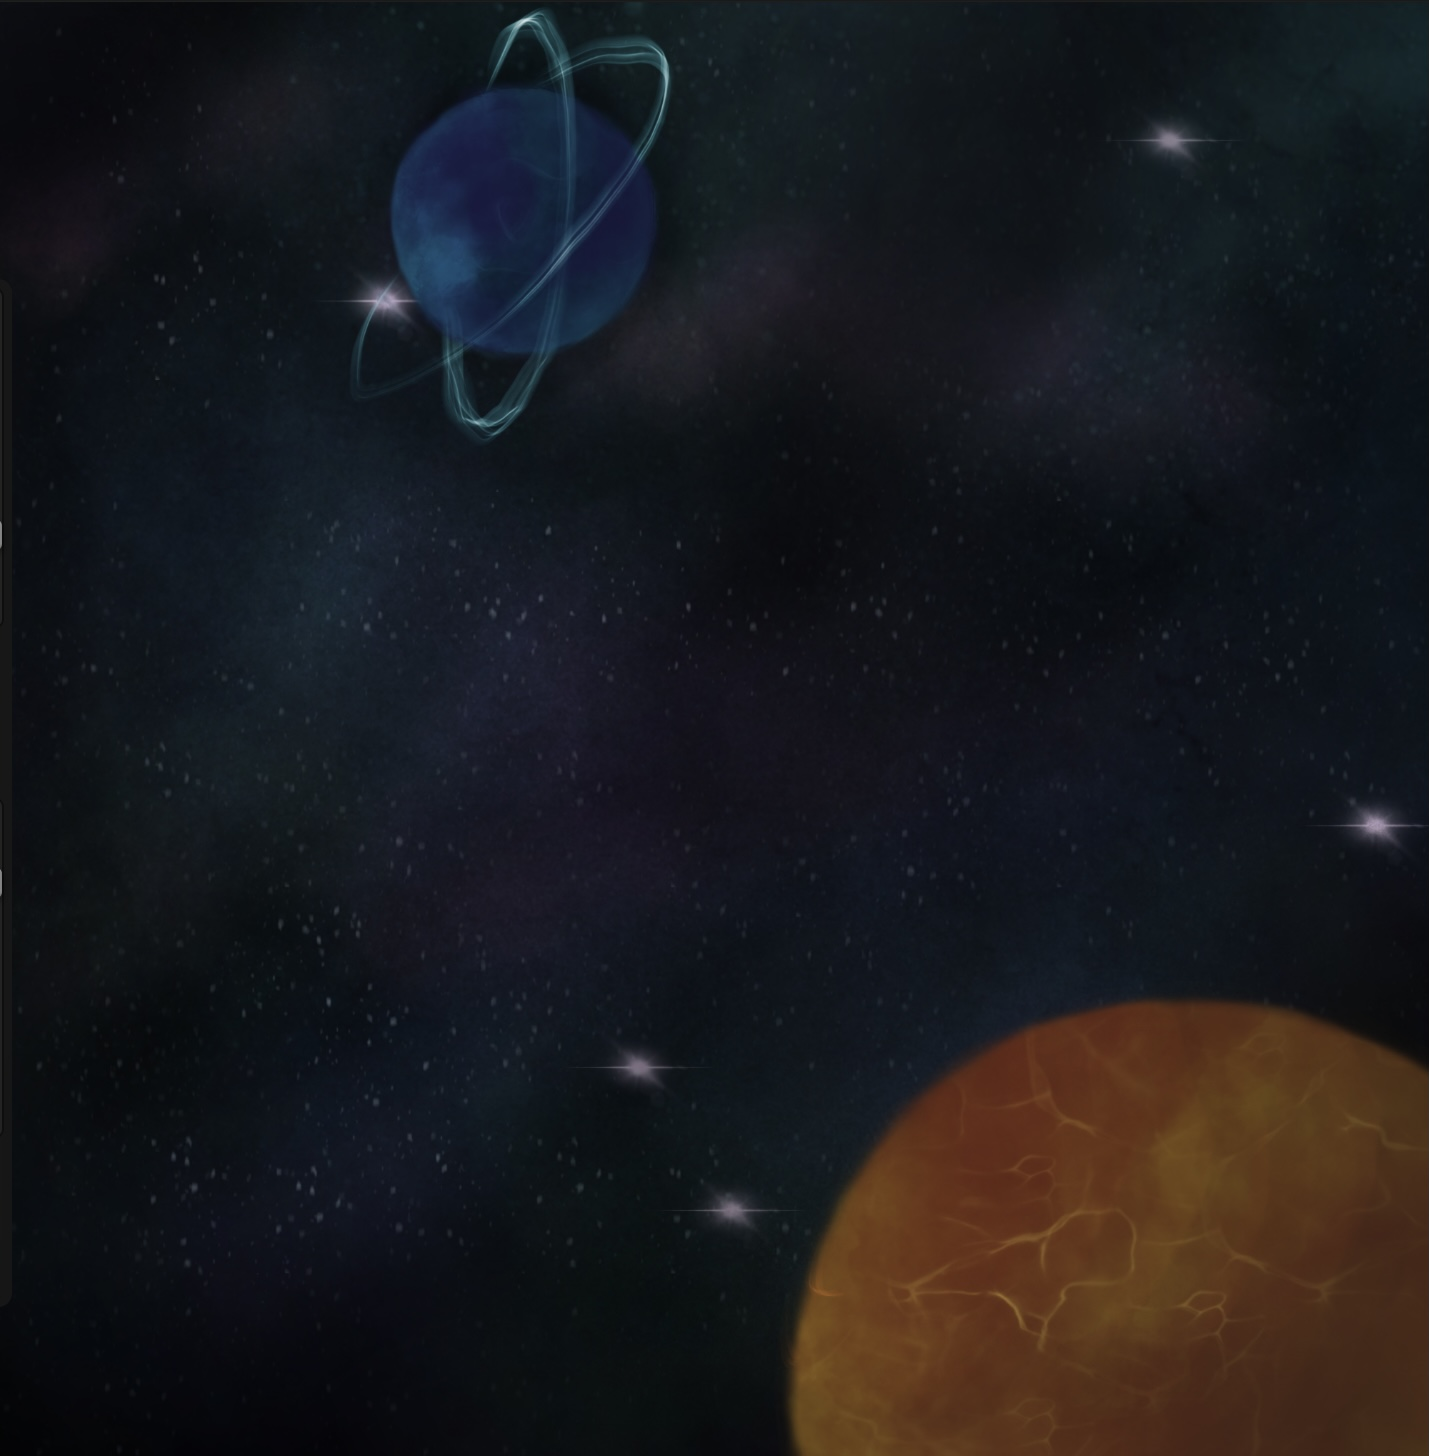
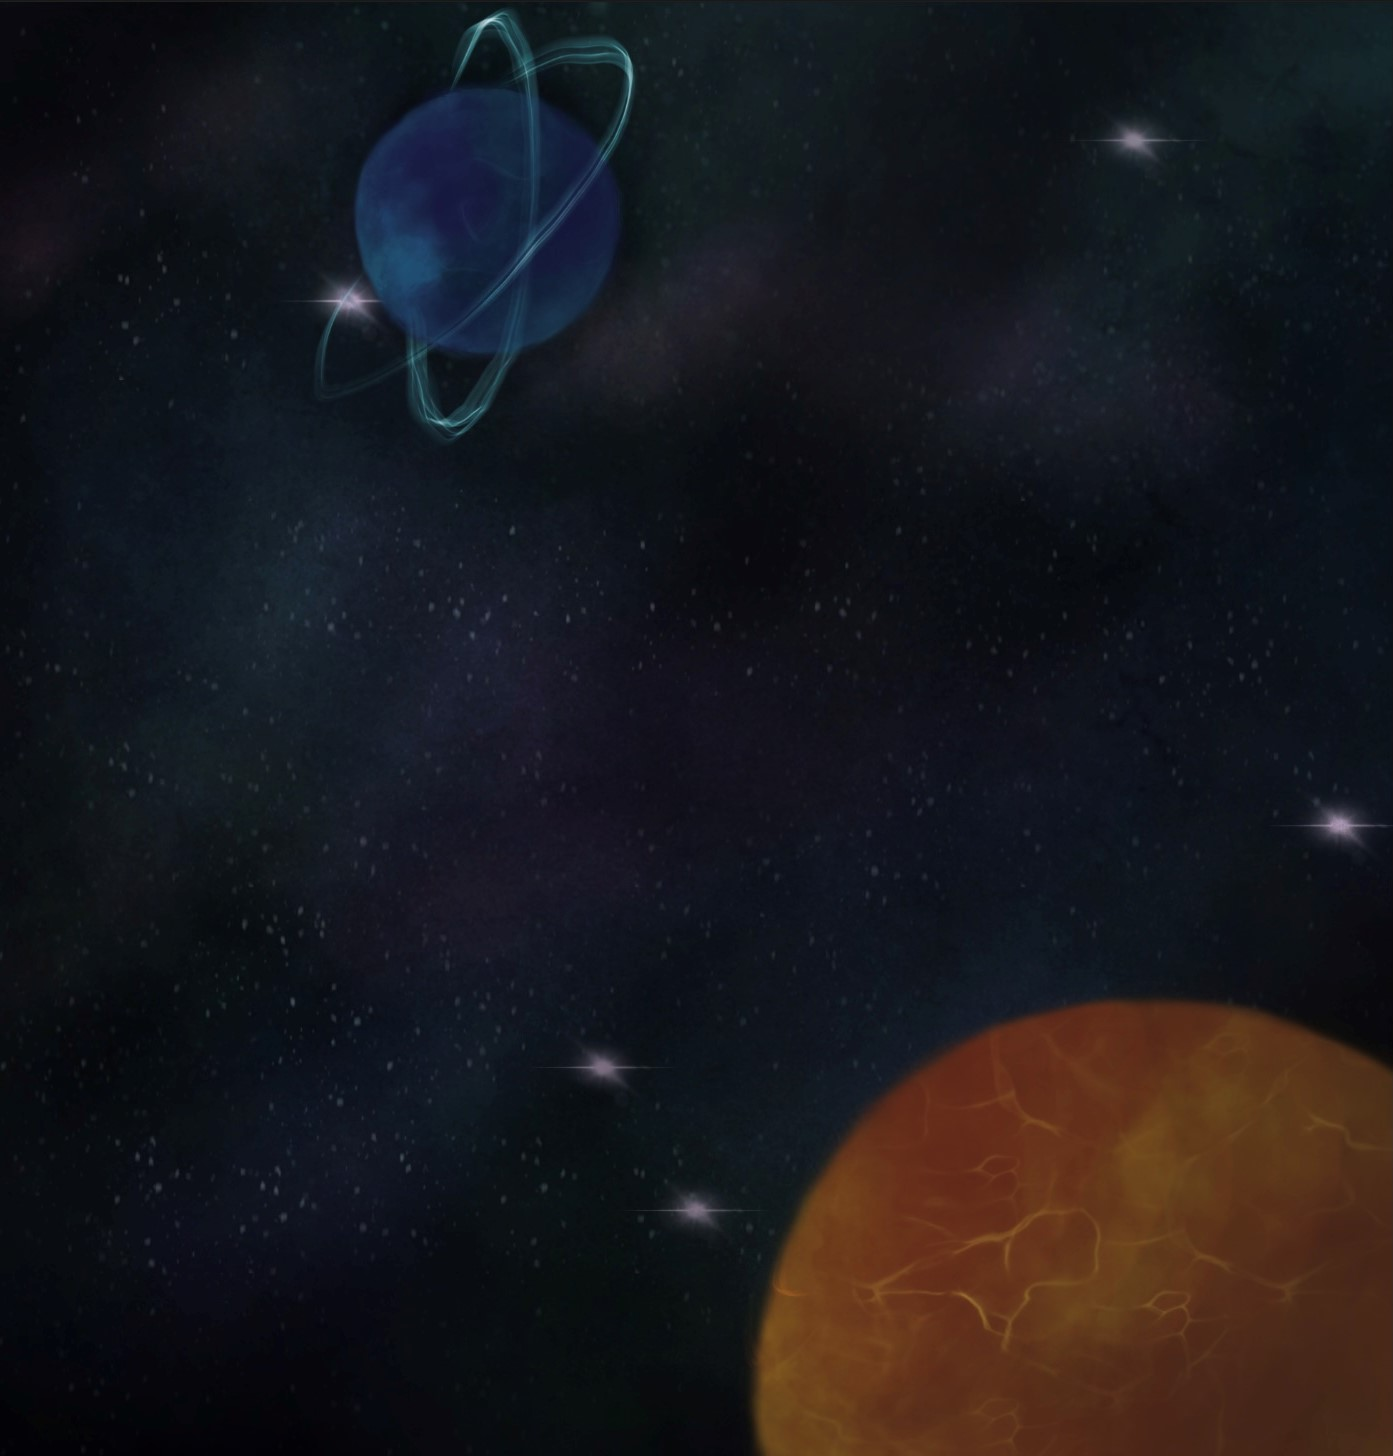
added resume, added media queries

diff --git a/assets/style.css b/assets/style.css
@@ -15,9 +15,8 @@ header {
     background-image: url(../assets/images/Space.PNG);
     background-size: cover;
     background-attachment: fixed;
-    background-position: 80%;
+    background-position: auto;
     padding: 20px 35px;
-    background-color: ;
     display: flex;
     justify-content: space-between;
     flex-wrap: wrap;
@@ -61,7 +60,7 @@ body {
     font-family: "Courier New (monospace)";
     background-image: url(../assets/images/Space.PNG) ;
     background-size: cover;
-    background-position: 100%;
+    background-position: auto;
     background-attachment: scroll;
 }
 .font-effect-neon h2 {
@@ -69,12 +68,12 @@ body {
     color: #1f004d;
 }
 section {
-margin: 50px auto;
-padding-bottom: 50px;
-width: 90%;
+margin: 100px auto;
+width: 100%;
 display: flex;
 flex-wrap: wrap;
 flex-direction: column;
+columns: 2 200px;
 justify-content: space-between;
 }
 article {
@@ -89,23 +88,23 @@ article {
 }
 .info p {
     padding: 10px;
-    flex: 50$;
+    flex: 50%;
     align-content: center;
     justify-content:space-evenly;
 }
-.projects, .art, .js, .run-buddy, .game {
- width:350px;
-height:350px;
+.img-fluid {
+ width: 200px;
+height: 200px;
 text-align: center;
  display:flex;
 flex-wrap:wrap;
 }
-.work div {
-    column-count:2;
+.projects .flex-row {
+    margin: auto;
+    column-count: 2;
+    column-width: 350px;
     padding: 10px;
-    display:flex;
 }
-
 .contact-info {
     display: flex;
     justify-content: space-between;
@@ -120,11 +119,11 @@ flex-wrap:wrap;
     font-size: 32px;
 }
 
-.contact-info p, {
-    margin: 20px 0;
-    line-height: 1.5;
-    font-size: 16px;
-    font-style: normal;
+.contact-info p {
+    margin:20px 0;
+    line-height:1.5;
+    font-size:16px;
+    font-style:normal;
 }
 
 .contact-info ul {
@@ -181,12 +180,120 @@ li:hover {
     color: black;
 }
 
-  footer {
+footer {
     background: #001a33;
     width: 100%;
     padding: 40px 35px;
     display: flex;
     justify-content: space-between;
     flex-wrap: wrap;
-    font-display:inherit;
+}
+footer p {
+    line-height: 1.5;
+    text-align: center;
+    align-items: center;
+}
+.flex-row {
+    display: flex;
+}
+/* MEDIA QUERY FOR SMALLER DESKTOP SCREENS AND SMALLER */
+@media screen and (max-width: 980px) {
+    header {
+      padding-bottom: 0;
+      justify-content: center;
+    }
+  
+    header h1 {
+      width: 100%;
+      text-align: center;
+    }
+  
+    header nav ul {
+      margin-top: 20px;
+      width: 100%;
+      justify-content: center;
+    }
+  
+    header nav ul li a {
+      font-size: 20px;
+    }
+  
+    footer h2, footer div {
+      text-align: center;
+      width: 100%;
+    }
+    .about {
+        text-align: center;
+    }
+    .selfie {
+        width: 60%;
+        align-items: center;
+      }
+      .section-title {
+        width: 80%;
+      }
+      
+      .img-fluid {
+        flex: 0 10%;
+      }
+      
+      .contact {
+        flex: 1 90%;
+      }
+  
+  /* MEDIA QUERY FOR TABLETS AND SMALLER */
+  @media screen and (max-width: 768px) {
+    .about-me {
+        flex: 2 100%;
+        text-align: center;
+        justify-content: center;
+      }
+    section {
+      padding: 30px 15px;
+    }
+    .about-me h2 {
+        flex: 1 100%;
+        text-align: center;
+      }
+      .selfie {
+        flex: 0 32%;
+        margin-right: 0;
+        margin-top: 15px;
+        margin-bottom: 15px;
+      }
+      .info {
+        flex: 100%;  
+      }
+    }
+  
+  /* MEDIA QUERY FOR MOBILE PHONES AND SMALLER */
+  @media screen and (max-width: 575px) {
+    header, body {
+          padding: auto;
+    }
+    header nav ul {
+        margin-top: 10px;
+        width: 100%;
+        justify-content: center;
+      }
+    .section-title {
+          width: 95%;
+    }
+      
+    .about p {
+          width: 100%;
+    }
+      
+    .img-fluid {
+          flex: 0 100%;
+    }
+      
+    .contact {
+          text-align: center;
+    }
+      
+        .contact > * {
+          flex: 0 100%;
+        }
+    }
 }

diff --git a/index.html b/index.html
@@ -16,10 +16,10 @@
                 border: 2px solid #ddd; /* Gray border */
                 border-radius: 4px;  /* Rounded border */
                 padding: 5px; /* Some padding */
-                width: 300px; /* Set a small width */
+                width: 280px; /* Set a small width */
                 display:flex;
                 flex-direction: column;
-                align-items: baseline;
+                align-items: center;
                 }
                 /* Add a hover effect (blue shadow) */
             .projects img:hover {
@@ -50,7 +50,7 @@
                  <a href= "#contact-me">Contact Me</a>
                 </li>
                 <li>
-                    <a href= "#my-resume">My Resume</a>
+                    <a href= "https://www.linkedin.com/in/emily-stewart-40b476204/">My Resume</a>
                 </li>
             </ul>
         </nav>
@@ -88,28 +88,19 @@
                 <div class="art">
                     <h4>Artwork</h4>
                         <a target="_blank" href="https://www.instagram.com/_queenblacksheep_/">
-                            <img src="assets/images/thumbnail1.jpg" alt="Art id">
+                            <img src="assets/images/thumbnail1.jpg" class="img-fluid">
                         </a>
                 </div>
-                <br>
                 <div class="js">
                     <h4>Javascript</h4>
                         <a target="_blank" href="https://github.com/EmiStew14/robot-gladiators">
-                            <img src="assets/images/thumbnail2.jpg" alt="Javascript thumbnail">
+                            <img src="assets/images/thumbnail2.jpg" class="img-fluid">
                         </a>
                 </div>
-                <br>
                 <div class="run-buddy">
                     <h4>Run Buddy</h4>
                         <a target="_blank" href="https://github.com/EmiStew14/run-buddy">
-                            <img src="assets/images/thumbnail4.jpg" alt="Run thumbnail">
-                        </a>
-                </div>
-                <br>
-                <div class="game">
-                    <h4>Games</h4>
-                        <a target="_blank" href="/">
-                            <img src="assets/images/thumbnail3.jpg" alt="TBA thumbnail">
+                            <img src="assets/images/thumbnail4.jpg" class="img-fluid">
                         </a>
                 </div>
             </div>
